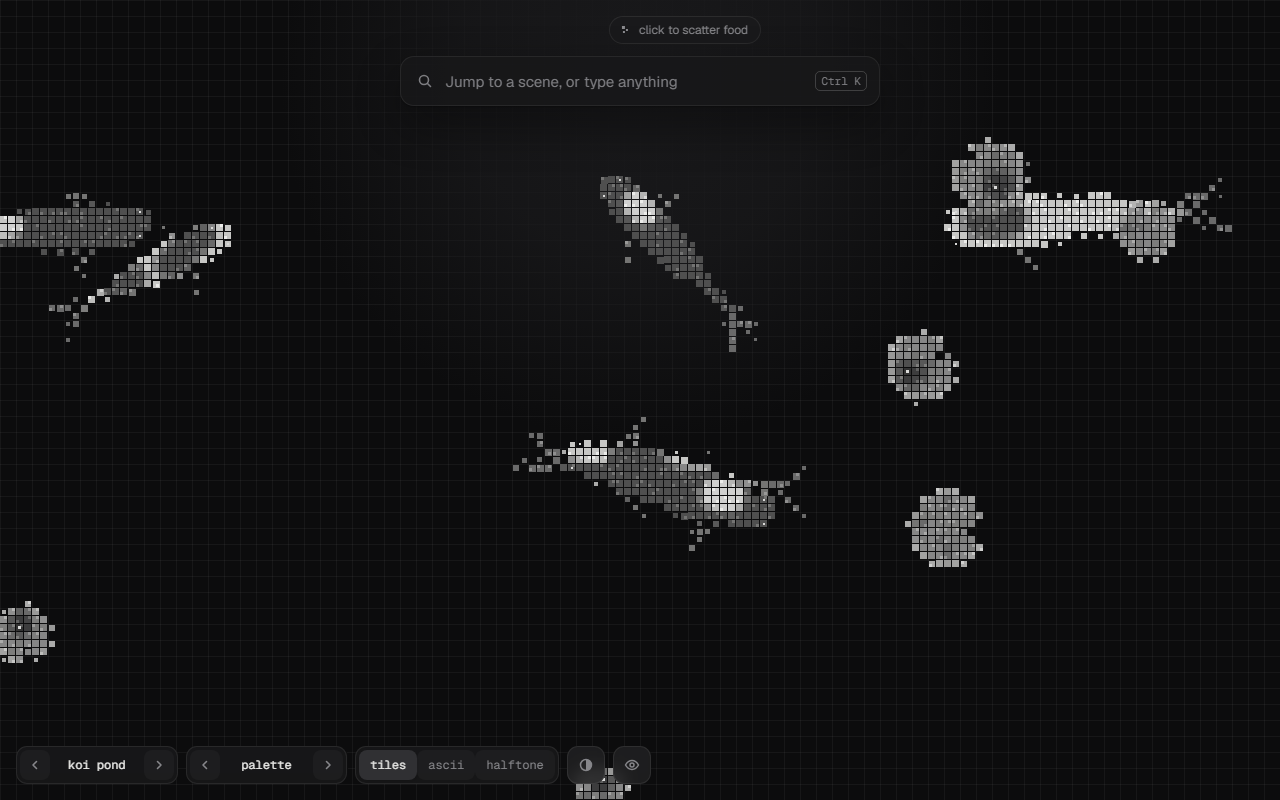
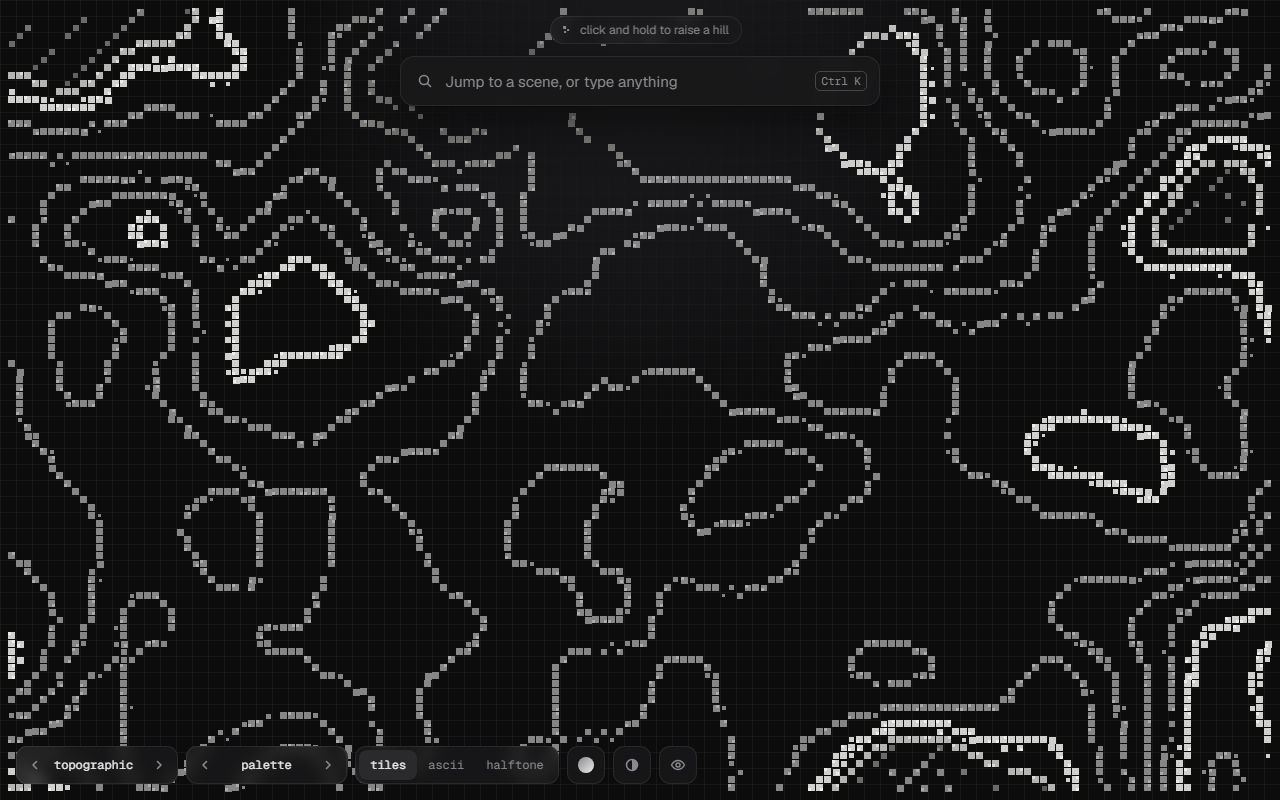
docs: use the topographic map for the README preview

diff --git a/README.md b/README.md
@@ -4,7 +4,7 @@ Generative scenes drawn live on a canvas, rendered as tiles, ASCII or halftone. 
 
 **[Live demo](https://yarooqh.github.io/tilescape/)**
 
-[![Koi pond rendered as tiles](docs/preview.png)](https://yarooqh.github.io/tilescape/)
+[![Topographic map rendered as tiles](docs/preview.png)](https://yarooqh.github.io/tilescape/)
 
 ## Scenes
 
